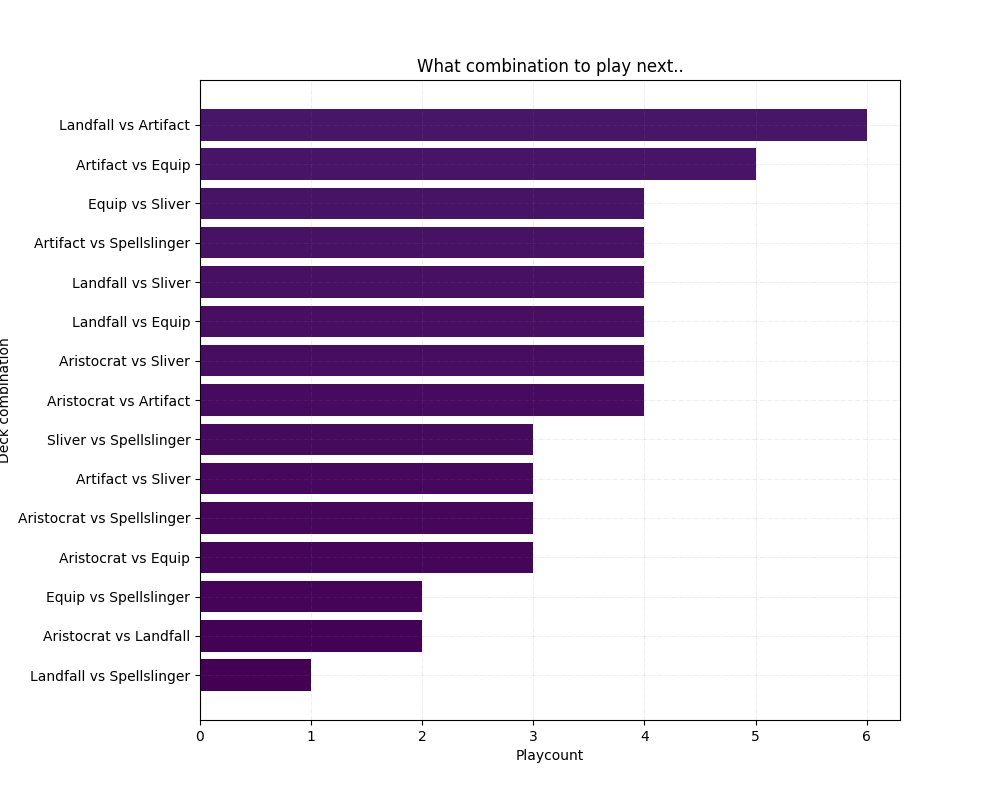
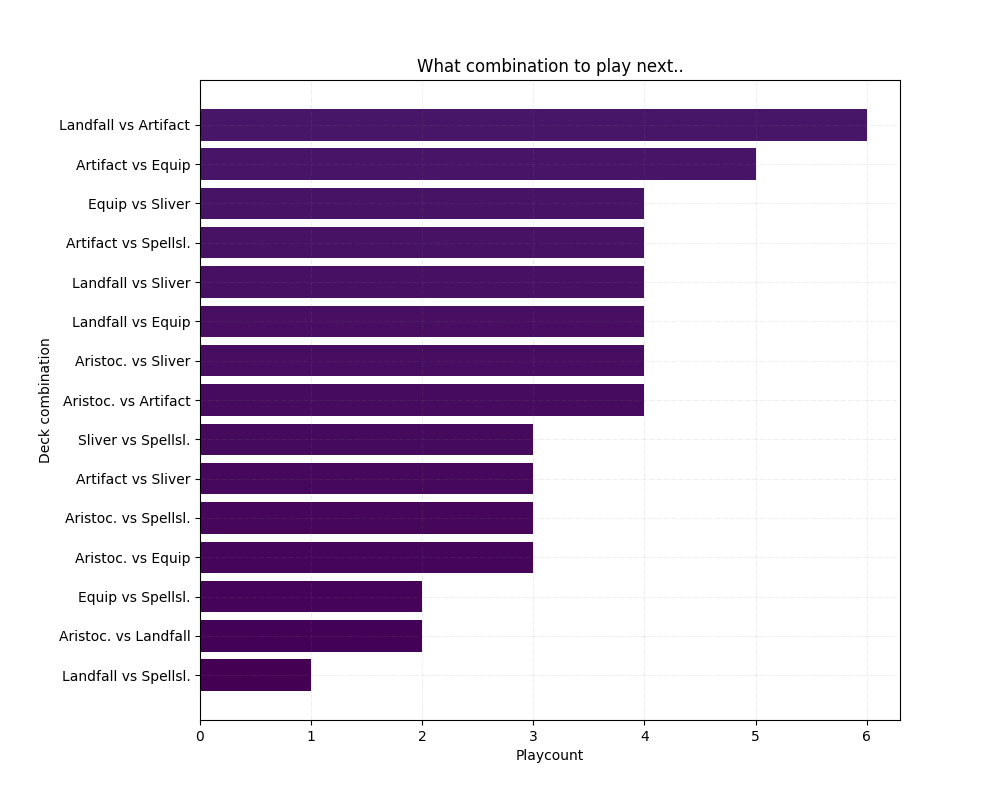
Add win loss summary to w/l print

diff --git a/win_loss_calc.py b/win_loss_calc.py
@@ -5,7 +5,7 @@ import numpy as np
 
 np.seterr(divide="ignore", invalid="ignore")
 
-DECK_NAME_ORDER = ["Aristocrat", "Landfall", "Artifact", "Equip", "Sliver", "Spellslinger"]
+DECK_NAME_ORDER = ["Aristoc.", "Landfall", "Artifact", "Equip", "Sliver", "Spellsl."]
 CMAP = plt.get_cmap("viridis")
 
 
@@ -25,6 +25,25 @@ def plot_stats(array_to_plot: np.ndarray, plot_name: str) -> None:
 
     plt.xticks(np.arange(len(DECK_NAME_ORDER)), DECK_NAME_ORDER)
     plt.yticks(np.arange(len(DECK_NAME_ORDER)), DECK_NAME_ORDER)
+    plt.savefig(f"results/{plot_name}.png")
+
+
+def plot_stats_with_win_loss_summary(array_to_plot: np.ndarray, plot_name: str) -> None:
+
+    # win_loss_summary = np.around(np.nanmean(array_to_plot,axis=1))
+    win_loss_summary = np.reshape(np.around(np.nanmean(array_to_plot,axis=1), decimals=1), (-1, array_to_plot.shape[0]))
+
+    extended_array_to_plot = np.hstack([win_loss_summary.T,array_to_plot])
+
+    fig, ax = plt.subplots()
+    ax.imshow(extended_array_to_plot, cmap="RdYlGn")
+
+    for (i, j), z in np.ndenumerate(extended_array_to_plot):
+        ax.text(j, i, "{}".format(z), ha="center", va="center", size=12)
+
+    plt.yticks(np.arange(len(DECK_NAME_ORDER)), DECK_NAME_ORDER)
+
+    plt.xticks(np.arange(len(DECK_NAME_ORDER)+1), ['w/l']+DECK_NAME_ORDER)
     plt.savefig(f"results/{plot_name}.png")
 
 
@@ -115,15 +134,17 @@ def plot_single_deck_counts(deck_play_counts: Dict) -> None:
 
 if __name__ == "__main__":
     game_statistics_array = load_data()
+
     total_games_played_array, total_games_played_array_filtered  = figure_and_form_total_games_played_array(
         game_statistics_array,
         min_count_threshold=3
     )
     win_loss_percentages_array = game_statistics_array / total_games_played_array_filtered * 100
-    
     deck_play_counts = figure_and_define_deck_play_counts(total_games_played_array)
 
     plot_deck_combination_counts(deck_play_counts)
     plot_single_deck_counts(deck_play_counts)
-    plot_stats(np.around(win_loss_percentages_array, decimals=1), "win_loss_ratio")
+    plot_stats_with_win_loss_summary(np.around(win_loss_percentages_array, decimals=1), "win_loss_ratio_sum")
+    # plot_stats(np.around(win_loss_percentages_array, decimals=1), "win_loss_ratio")
+
     plot_stats(game_statistics_array, "game_stats")
